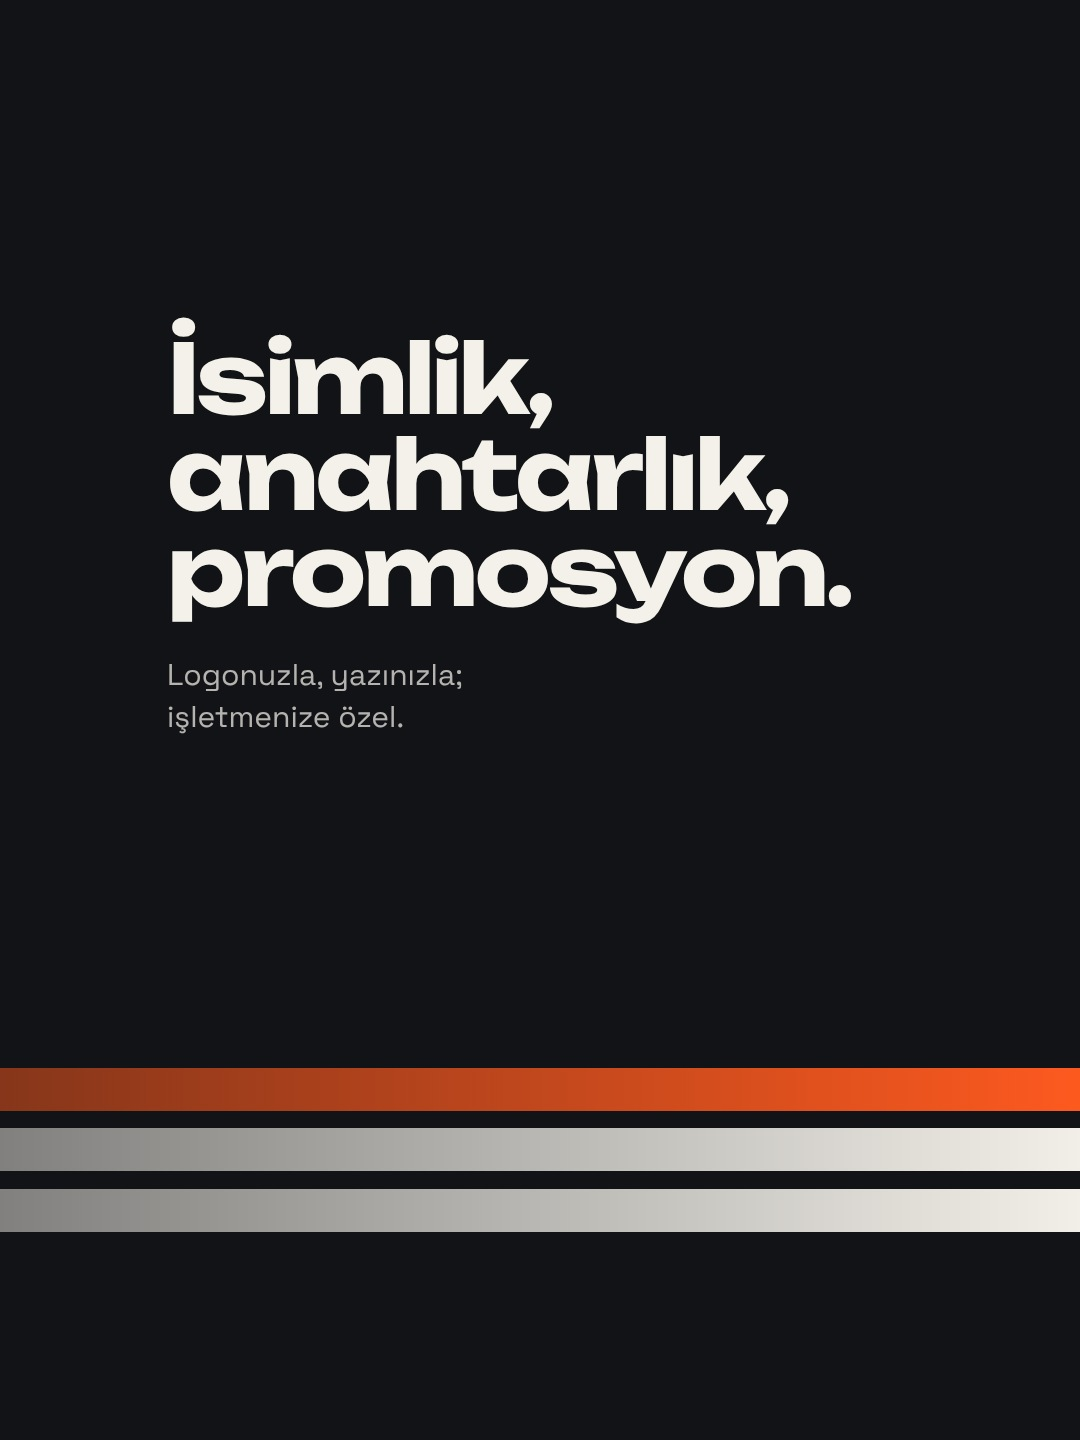
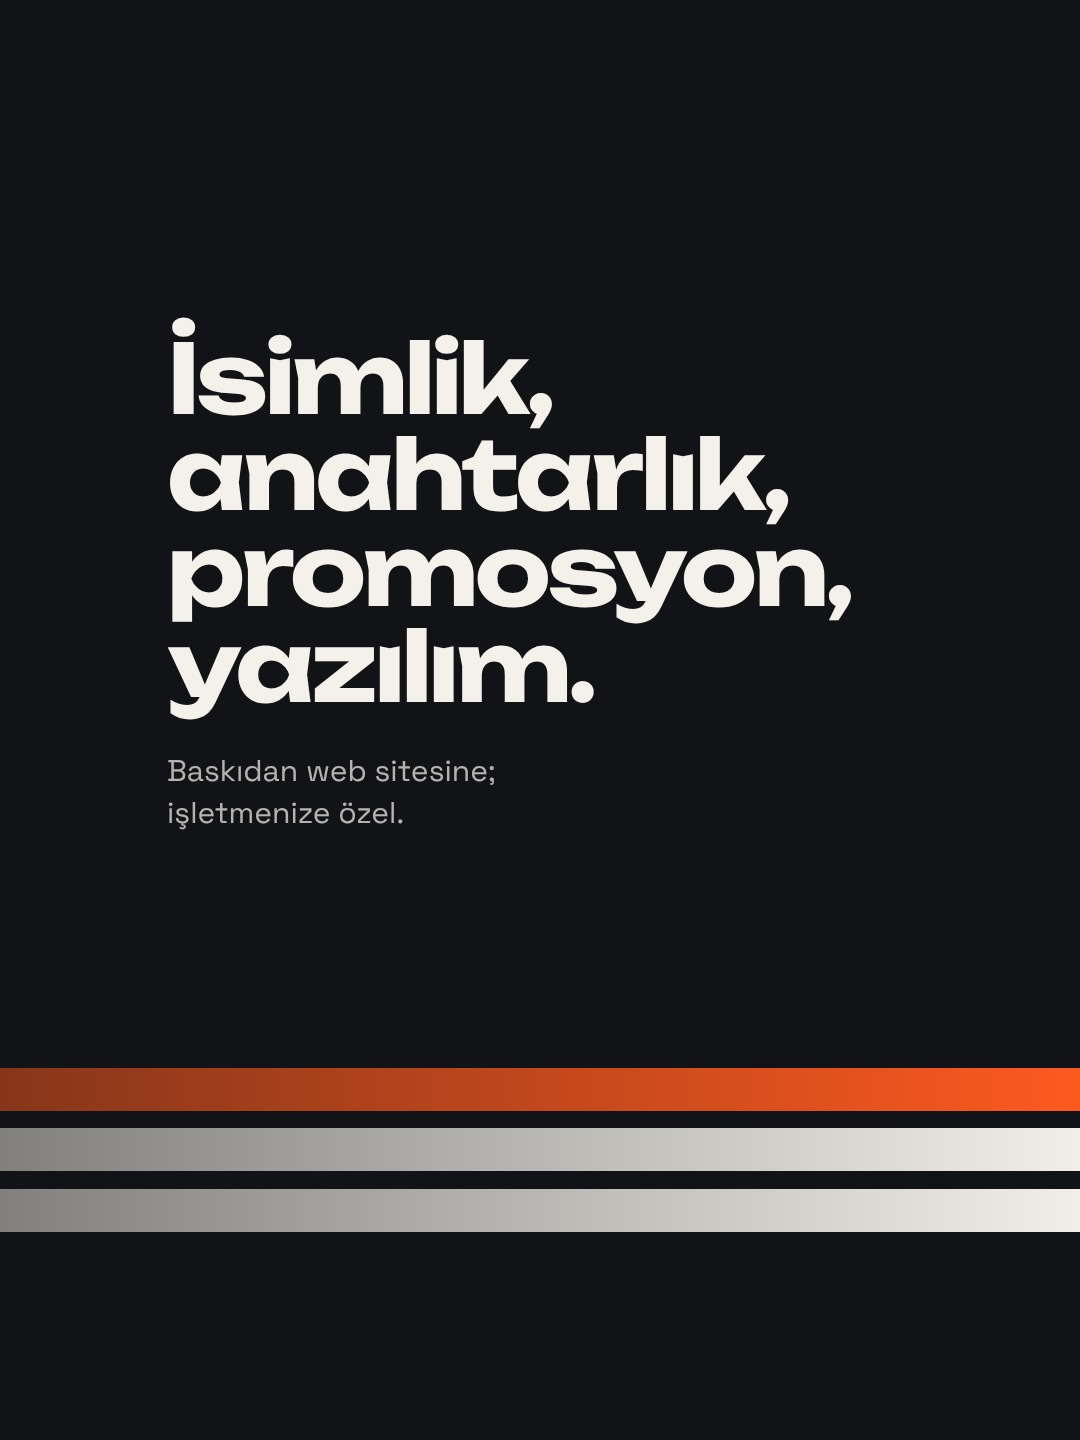
Instagram tanıtım: 2. karede yazılım da var
Claude-Session: https://claude.ai/code/session_01DYSZWrkNx3UmjJ19VqHJCk

Changed region(s): [[0.1528, 0.4375, 0.55, 0.5938], [0.7639, 0.4062, 0.7944, 0.4375]]

diff --git a/scripts/boyde_instagram_panorama.py b/scripts/boyde_instagram_panorama.py
@@ -7,7 +7,7 @@ yana (üç ayrı gönderi, ızgara bulmacası) birleşir. Ekran görüntüsünde
 onun ortasından 3:4 almış: her karenin ortadaki 810 × 1080'i görünüyor. Bu yüzden yazılar, logo ve nozul her karenin
 GUVENLI alanında (x 135–945, y 180–1260); 3:4 yüklense de kare kırpılsa da ızgarada kesilmez. Katmanlar boydan boya:
   1. kare: Her katman / size özel. · Merhaba, biz BOYDE LABS.
-  2. kare: İsimlik, / anahtarlık, / promosyon. · Logonuzla, yazınızla; işletmenize özel.
+  2. kare: İsimlik, / anahtarlık, / promosyon, / yazılım. · Baskıdan web sitesine; işletmenize özel.
   3. kare: Tasarımdan / 3D baskıya. · Kendi atölyemizde. · Shopier, DM, telefon · nozul
 Izgarada en yeni gönderi solda: önce 3. kare, sonra 2., en son 1. kare paylaşılır.
 
@@ -66,8 +66,8 @@ def panorama():
       <div style="position:absolute;left:{SOL}px;top:{GY0 + 28}px">{K.logo("koyu", 420, 44)}</div>
       {blok(0, [("Her", PAPER), ("katman", PAPER), ("size", ORANGE), ("özel.", ORANGE)],
             "Merhaba, biz BOYDE LABS.", 128)}
-      {blok(KARE, [("İsimlik,", PAPER), ("anahtarlık,", PAPER), ("promosyon.", PAPER)],
-            "Logonuzla, yazınızla;<br>işletmenize özel.", 96)}
+      {blok(KARE, [("İsimlik,", PAPER), ("anahtarlık,", PAPER), ("promosyon,", PAPER), ("yazılım.", PAPER)],
+            "Baskıdan web sitesine;<br>işletmenize özel.", 96)}
       {blok(2 * KARE, [("Tasarımdan", PAPER), ("3D baskıya.", PAPER)], "Kendi atölyemizde.", 96,
             f'''<p style="margin-top:30px;font-size:26px;line-height:1.6;color:rgba(244,241,234,.6)">Shopier · DM<br>
             <b style="color:{PAPER};font-size:32px">{K.TEL}</b></p>''')}
